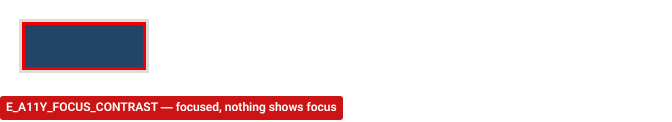
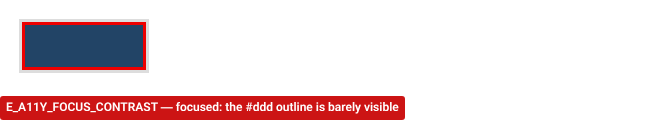
docs: counterexample gallery covers 46 patterns
Ten more cases: hover-only controls, text cut off under the WCAG text spacing,
small text, pointer-events: none over a visible button, a focusable button in
aria-hidden, focus escaping an open modal, padding beyond a fixed size, a row
wider than the page, text spilling into its neighbour, nested scroll areas.
Focus pictures carry a per-case caption.

Claude-Session: https://claude.ai/code/session_01JroQ9fSM85oYnk9PfR2xPa

Changed region(s): [[0.3125, 0.7869, 0.625, 0.9836]]

diff --git a/docs/counterexamples/README.md b/docs/counterexamples/README.md
@@ -702,6 +702,206 @@ body{padding:0}.page{display:grid;grid-template-columns:minmax(0,1fr);background
 
 </details>
 
+## A control that only hover reveals
+
+`E_A11Y_HOVER_ONLY` — viewport 672 × 690px
+
+> .b appears on :hover but stays hidden when focused, so keyboard users cannot see it
+
+![hover-only](hover-only-violation.png)
+
+<details><summary>HTML / CSS</summary>
+
+```html
+<main class="page"><div class="row"><div class="item"></div><button class="b" aria-label="Delete"></button></div></main>
+```
+
+```css
+.page{display:grid;grid-template-columns:240px;background:#fff}.row{display:grid;grid-template-columns:minmax(0,1fr) 44px;height:44px;background:#eee}.b{appearance:none;display:block;padding:0;border:0;min-width:0;min-height:0;opacity:0;background:#c33}.b:hover{opacity:1}
+```
+
+</details>
+
+## Text cut off at 1.5 line-height (user text spacing)
+
+`E_A11Y_TEXT_SPACING` — viewport 672 × 690px
+
+> .t clips its text with letter-spacing 0.12em and word-spacing 0.16em (needs 197.4375px)
+
+![text-spacing](text-spacing-before.png) ![text-spacing](text-spacing-after.png)
+
+<details><summary>HTML / CSS</summary>
+
+```html
+<main class="page"><p class="t">Order status: shipped</p></main>
+```
+
+```css
+.page{display:grid;grid-template-columns:190px;grid-template-rows:20px;background:#fff;color:#000}.t{font-family:Roboto;font-size:16px;line-height:20px;white-space:nowrap;overflow:hidden;background:#eef}
+```
+
+</details>
+
+## Text below 12px on narrow screens
+
+`W_A11Y_SMALL_TEXT` — viewport 672 × 690px
+
+> .t is set at 10px
+
+![small-text](small-text-violation.png)
+
+<details><summary>HTML / CSS</summary>
+
+```html
+<main class="page"><p class="t">Terms and conditions apply</p></main>
+```
+
+```css
+.page{display:grid;grid-template-columns:minmax(0,1fr);background:#fff;color:#000}.t{font-family:Roboto;font-size:10px;line-height:14px;white-space:nowrap}
+```
+
+</details>
+
+## A visible button under pointer-events: none
+
+`E_A11Y_POINTER_DISABLED` — viewport 672 × 690px
+
+> .go cannot be clicked: pointer-events is none here
+
+![pointer-disabled](pointer-disabled-violation.png)
+
+<details><summary>HTML / CSS</summary>
+
+```html
+<main class="page"><div class="panel"><button class="go" aria-label="Continue"></button></div></main>
+```
+
+```css
+.page{display:grid;grid-template-columns:160px;background:#fff}.panel{display:grid;grid-template-columns:minmax(0,1fr);pointer-events:none}.go{appearance:none;display:block;padding:0;border:0;min-width:0;min-height:0;height:44px;background:#246}
+```
+
+</details>
+
+## A focusable button inside aria-hidden
+
+`E_A11Y_HIDDEN_FOCUSABLE` — viewport 672 × 690px
+
+> .b can take focus inside aria-hidden content
+
+![hidden-focusable](hidden-focusable-violation.png)
+
+<details><summary>HTML / CSS</summary>
+
+```html
+<main class="page"><div class="bar" aria-hidden="true"><button class="b" aria-label="Share"></button></div></main>
+```
+
+```css
+.page{display:grid;grid-template-columns:120px;padding:4px;background:#fff}.bar{display:grid;grid-template-columns:minmax(0,1fr)}.b{appearance:none;display:block;padding:0;border:0;min-width:0;min-height:0;height:44px;background:#246}.b:focus{outline:3px solid #1a73e8}
+```
+
+</details>
+
+## Focus can leave an open modal dialog
+
+`W_A11Y_MODAL_BACKGROUND` — viewport 672 × 690px
+
+> .o can take focus outside the modal .d; make the background inert (or aria-hidden and unfocusable)
+
+![modal-background](modal-background-violation.png)
+
+<details><summary>HTML / CSS</summary>
+
+```html
+<main class="page"><div class="bg"><button class="o" aria-label="Background action"></button></div><div class="d" role="dialog" aria-modal="true" aria-label="Confirm"><button class="i" aria-label="OK"></button></div></main>
+```
+
+```css
+.page{position:relative;display:grid;grid-template-columns:240px;grid-template-rows:44px;background:#fff}.bg{display:grid;grid-template-columns:minmax(0,1fr)}.o{appearance:none;display:block;padding:0;border:0;min-width:0;min-height:0;height:44px;background:#999}.o:focus{outline:3px solid #1a73e8}.d{position:absolute;left:40px;top:60px;width:160px;height:80px;display:grid;grid-template-columns:minmax(0,1fr);padding:18px;background:#fff;box-shadow:0 4px 16px rgba(0,0,0,.3)}.i{appearance:none;display:block;padding:0;border:0;min-width:0;min-height:0;height:44px;background:#246}
+```
+
+</details>
+
+## Padding larger than the fixed size
+
+`E_LAYOUT_BOX_EDGES` — viewport 672 × 690px
+
+> .pill requires 32px but receives 24px on block axis at viewport 672px × 690px
+
+![box-edges](box-edges-violation.png)
+
+<details><summary>HTML / CSS</summary>
+
+```html
+<main class="page"><div class="pill"></div></main>
+```
+
+```css
+.page{display:grid;grid-template-columns:200px}.pill{height:24px;padding:16px 0;background:#9cf}
+```
+
+</details>
+
+## A rigid row wider than the page
+
+`E_LAYOUT_PAGE_OVERFLOW` — viewport 422 × 690px
+
+> .b reaches past the viewport, so the page scrolls horizontally
+
+![page-overflow-x](page-overflow-x-violation.png)
+
+<details><summary>HTML / CSS</summary>
+
+```html
+<main class="page"><div class="row"><div class="a"></div><div class="b"></div></div></main>
+```
+
+```css
+.page{display:grid;grid-template-columns:minmax(0,1fr)}.row{display:flex;column-gap:8px}.a{flex:none;width:300px;height:60px;background:#9cf}.b{flex:none;width:200px;height:60px;background:#fc9}
+```
+
+</details>
+
+## Text that spills into its neighbour
+
+`E_LAYOUT_TEXT_COLLISION` — viewport 429 × 690px
+
+> .t.a and .t.b overlap
+
+![text-collision](text-collision-violation.png)
+
+<details><summary>HTML / CSS</summary>
+
+```html
+<main class="page"><div class="row"><p class="t a">A long product name that overflows</p><p class="t b">19.99 USD</p></div></main>
+```
+
+```css
+.page{display:grid;grid-template-columns:minmax(0,1fr)}.row{display:grid;grid-template-columns:minmax(0,1fr) minmax(0,1fr)}.t{font-family:Roboto;font-size:16px;line-height:24px;white-space:nowrap}.b{background:rgba(255,200,120,.5)}
+```
+
+</details>
+
+## A scroll area inside a scroll area
+
+`W_LAYOUT_NESTED_SCROLL` — viewport 484 × 690px
+
+> .inner scrolls inside .outer
+
+![nested-scroll](nested-scroll-violation.png)
+
+<details><summary>HTML / CSS</summary>
+
+```html
+<main class="page"><div class="outer"><div class="inner"><div class="content"></div></div></div></main>
+```
+
+```css
+.page{display:grid;grid-template-columns:minmax(0,1fr)}.outer{display:grid;grid-template-columns:600px;overflow:auto;height:140px;background:#eee;padding:8px}.inner{display:grid;grid-template-columns:900px;overflow:auto;background:#cde}.content{min-width:0;height:100px;background:repeating-linear-gradient(90deg,#9cf 0 40px,#cde 40px 80px)}
+```
+
+</details>
+
 ## A badge that sticks out of its card
 
 `E_LAYOUT_PROTRUSION` — viewport 672 × 690px
